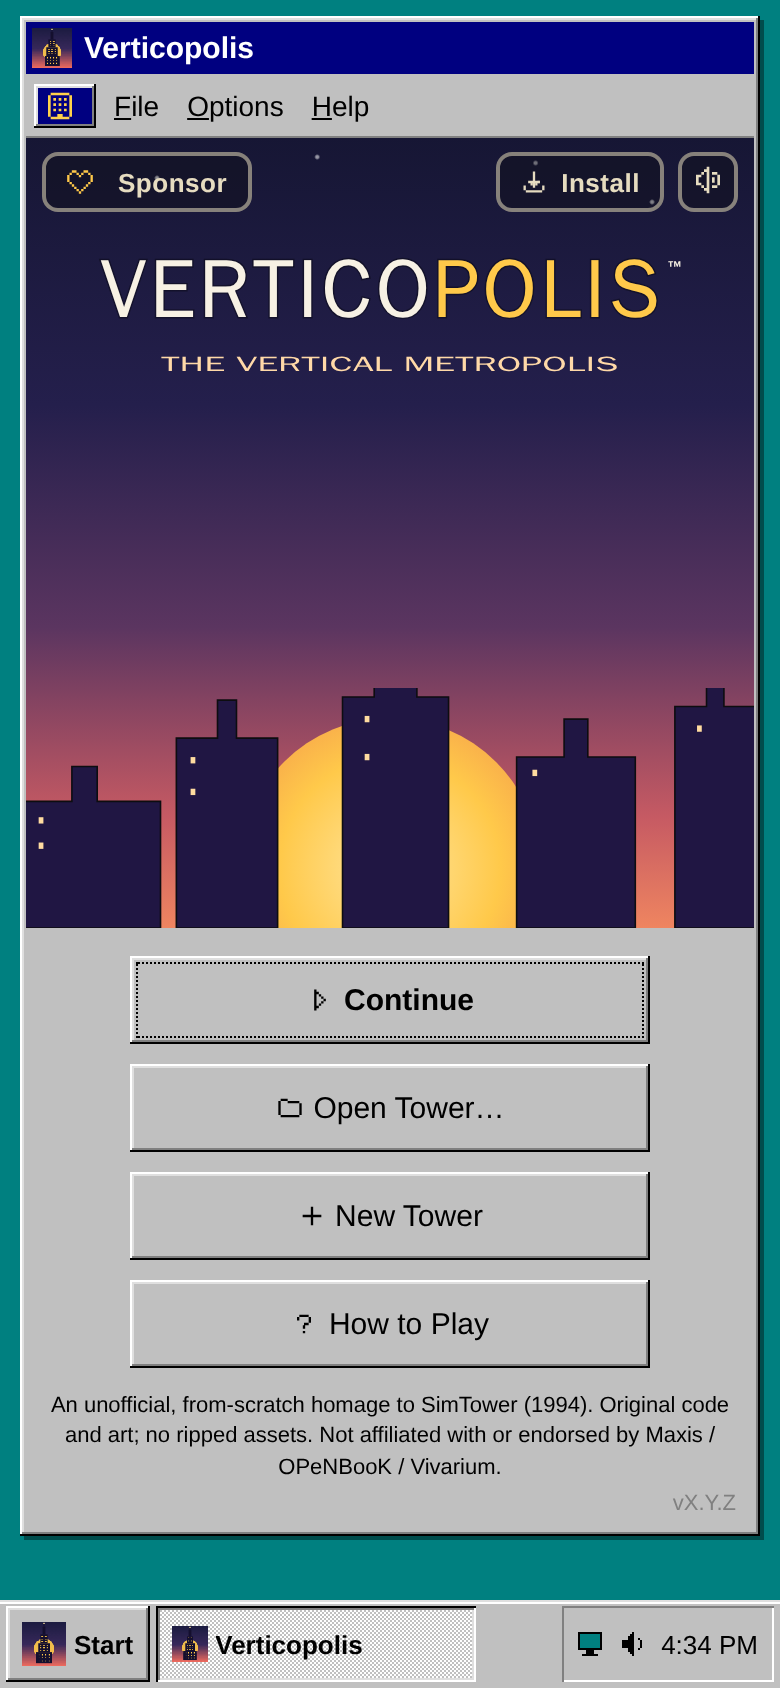
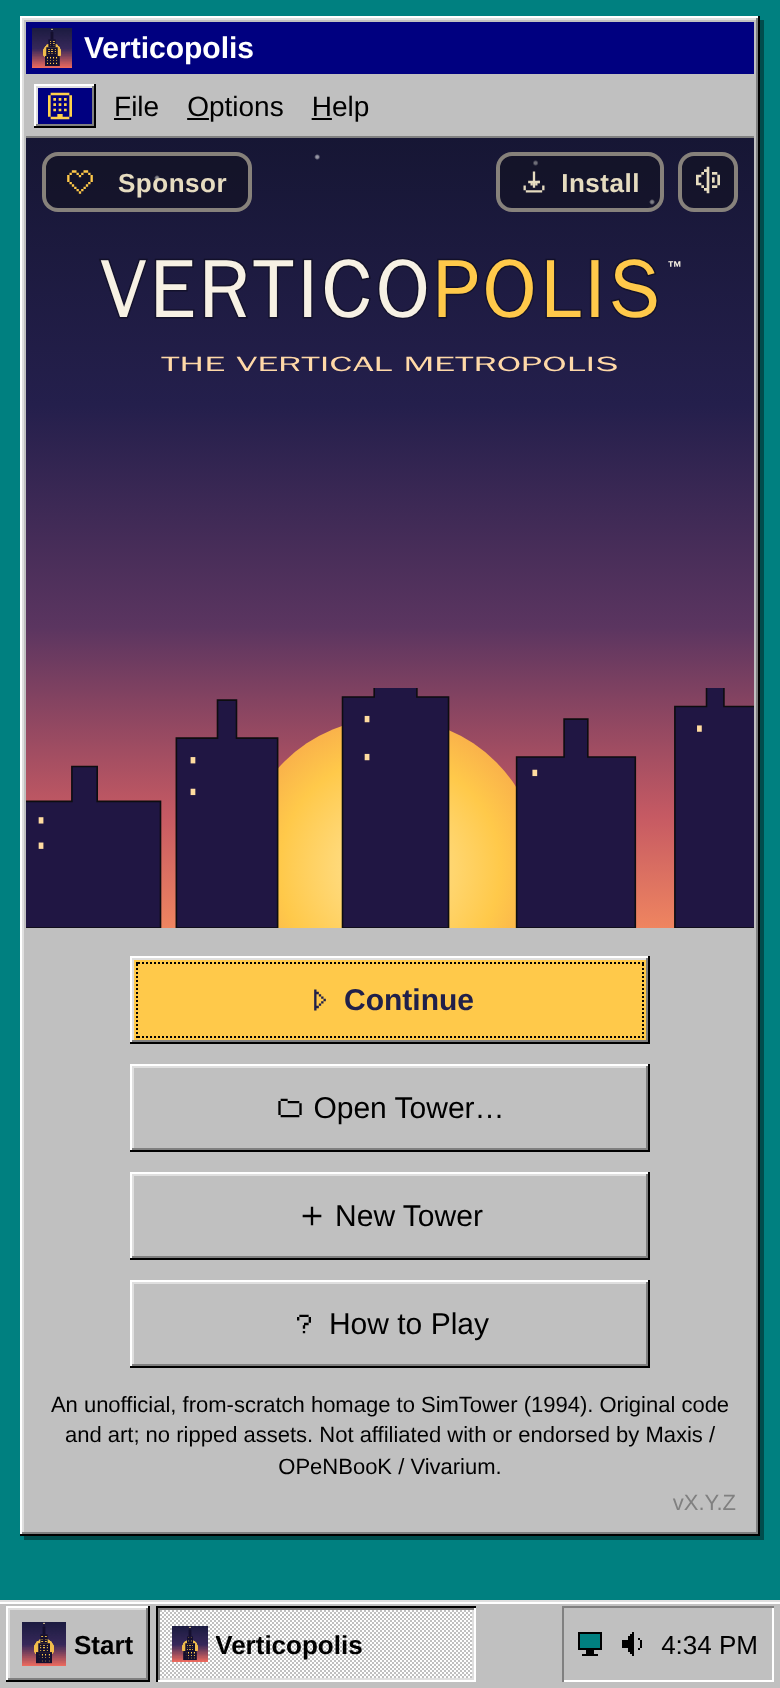
Color the title screen's main button in the scheme's accent
Pin @verticopolis/components 2.6.0, whose title screen gives the main
button the scheme's accent: amber in Classic, violet in Skyline and yellow
in High Contrast. The help page's opening screen section says so, and the
title screen shots show it.

Claude-Session: https://claude.ai/code/session_01Ms7traQaTnpWG6dapg5hmf

Changed region(s): [[0.1538, 0.5545, 0.8308, 0.6161]]

diff --git a/.changes/claude-project-thread-3g1zsw.md b/.changes/claude-project-thread-3g1zsw.md
@@ -1,0 +1,7 @@
+---
+app: patch
+---
+
+## Player
+
+- The main button on the opening screen (**Continue**, or **New Tower** before your first tower) is colored again so it stands out from the others: amber in Classic, violet in Skyline and yellow in High Contrast, on computers and phones.
